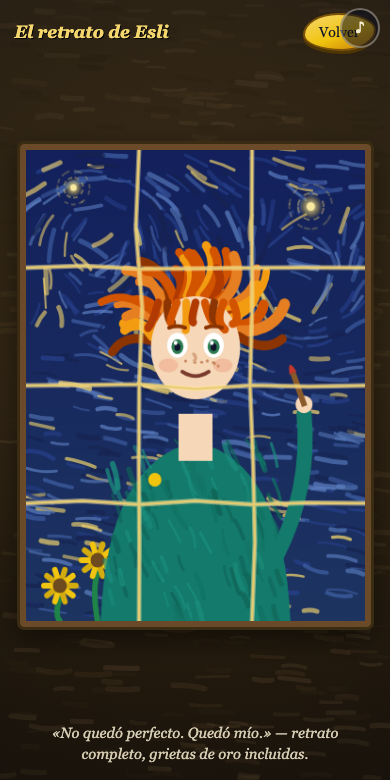
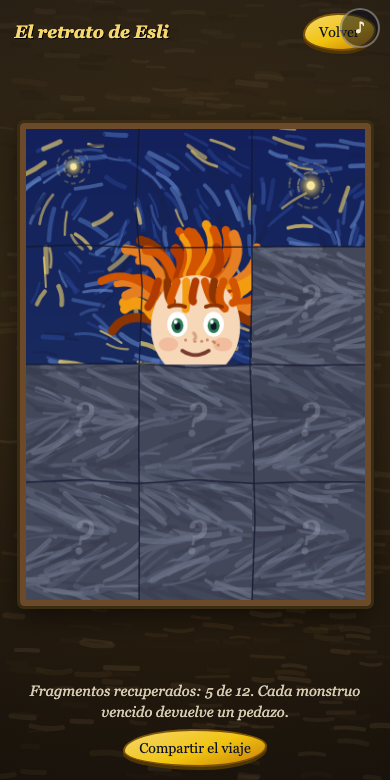
Sin spoilers en metadata + PWA offline + compartir
- og.jpg nueva (287KB, WhatsApp-safe): el retrato A MEDIO armar entre
  niebla — vende la premisa sin regalar el final. La anterior mostraba
  el retrato completo (la recompensa del juego) y pesaba 694KB.
- Descripciones y README sin revelar compañeros ni el final kintsugi.
- og:url/locale/site_name, canonical y JSON-LD VideoGame.
- PWA real: service worker (stale-while-revalidate, juega offline),
  iconos PNG 192/512 + maskable + apple-touch-icon con la cara de Esli.
- Botón 'Compartir el viaje' en la pantalla del retrato (Web Share API
  con fallback a portapapeles).

diff --git a/test/og.html b/test/og.html
@@ -6,7 +6,7 @@
 <script src="../js/art.js"></script>
 <script src="../js/sprites.js"></script>
 <script>
-/* compone la imagen Open Graph con el arte del juego */
+/* imagen Open Graph SIN spoilers: el retrato a medio armar, comido por la niebla */
 const ctx = document.getElementById('og').getContext('2d');
 const W = 1200, H = 630;
 const rnd = G.Art.mulberry(7);
@@ -24,43 +24,54 @@ G.Art.star(ctx, W * 0.55, H * 0.13, 10, rnd);
 G.Art.star(ctx, W * 0.94, H * 0.18, 8, rnd);
 G.Art.star(ctx, W * 0.47, H * 0.86, 7, rnd);
 
-/* retrato enmarcado, ligeramente inclinado */
-const port = G.Sprites.selfPortrait();
-const ph = 520, pw = ph * 360 / 480, px = 70, py = (H - ph) / 2;
+/* retrato EN PROCESO: solo algunas piezas; el resto, niebla con grietas */
+const port = G.Sprites.selfPortrait();          /* 360x480 */
+const wip = document.createElement('canvas');
+wip.width = 360; wip.height = 480;
+const wctx = wip.getContext('2d');
+const PC = 3, PR = 4, pw = 120, ph = 120;
+const visibles = { '1,0': 1, '0,1': 1, '1,1': 1, '2,1': 1, '1,2': 1, '0,3': 1 };
+for (let r = 0; r < PR; r++) {
+  for (let c = 0; c < PC; c++) {
+    if (visibles[c + ',' + r]) {
+      wctx.drawImage(port, c * pw, r * ph, pw, ph, c * pw, r * ph, pw, ph);
+    } else {
+      wctx.drawImage(G.Sprites.fogTexture(pw, ph, r * 7 + c * 3 + 2), c * pw, r * ph);
+    }
+  }
+}
+/* grietas oscuras (todavía no doradas: eso se gana jugando) */
+wctx.strokeStyle = 'rgba(12,16,38,.85)'; wctx.lineWidth = 2;
+for (let c = 1; c < PC; c++) { wctx.beginPath(); wctx.moveTo(c * pw, 0); wctx.lineTo(c * pw, 480); wctx.stroke(); }
+for (let r = 1; r < PR; r++) { wctx.beginPath(); wctx.moveTo(0, r * ph); wctx.lineTo(360, r * ph); wctx.stroke(); }
+
+const phh = 520, pww = phh * 360 / 480, px = 70, py = (H - phh) / 2;
 ctx.save();
-ctx.translate(px + pw / 2, py + ph / 2); ctx.rotate(-0.02);
-ctx.fillStyle = '#3a2c12'; ctx.fillRect(-pw / 2 - 16, -ph / 2 - 16, pw + 32, ph + 32);
-ctx.fillStyle = '#6b4a2a'; ctx.fillRect(-pw / 2 - 10, -ph / 2 - 10, pw + 20, ph + 20);
-ctx.drawImage(port, -pw / 2, -ph / 2, pw, ph);
+ctx.translate(px + pww / 2, py + phh / 2); ctx.rotate(-0.02);
+ctx.fillStyle = '#3a2c12'; ctx.fillRect(-pww / 2 - 16, -phh / 2 - 16, pww + 32, phh + 32);
+ctx.fillStyle = '#6b4a2a'; ctx.fillRect(-pww / 2 - 10, -phh / 2 - 10, pww + 20, phh + 20);
+ctx.drawImage(wip, -pww / 2, -phh / 2, pww, phh);
 ctx.restore();
 
 /* texto */
 ctx.fillStyle = '#f5d76e';
 ctx.font = 'bold 150px Georgia';
 ctx.shadowColor = 'rgba(241,196,15,.45)'; ctx.shadowBlur = 26;
-ctx.fillText('ESLI', 540, 235);
+ctx.fillText('ESLI', 540, 225);
 ctx.shadowBlur = 0;
 ctx.fillStyle = '#f6ecd0';
 ctx.font = 'italic 46px Georgia';
-ctx.fillText('Las Piezas de Mí', 545, 302);
+ctx.fillText('Las Piezas de Mí', 545, 292);
 ctx.fillStyle = '#f5d76e';
-ctx.font = 'italic 42px Georgia';
-ctx.fillText('«Hazlo con miedo.»', 545, 390);
-ctx.fillStyle = 'rgba(246,236,208,.88)';
-ctx.font = '28px Georgia';
-ctx.fillText('Un puzzle pintado a pinceladas,', 545, 450);
-ctx.fillText('donde el miedo te hace más fuerte.', 545, 486);
-
-/* los tres, en medallones */
-function circ(img, cx, cy, r) {
-  ctx.save(); ctx.beginPath(); ctx.arc(cx, cy, r, 0, 7); ctx.clip();
-  ctx.drawImage(img, cx - r, cy - r, r * 2, r * 2); ctx.restore();
-  ctx.lineWidth = 5; ctx.strokeStyle = '#c87f0a';
-  ctx.beginPath(); ctx.arc(cx, cy, r, 0, 7); ctx.stroke();
-}
-circ(G.Sprites.portrait('esli', 'brave'), 595, 558, 52);
-circ(G.Sprites.portrait('annie'), 715, 558, 52);
-circ(G.Sprites.portrait('chiquis'), 835, 558, 52);
+ctx.font = 'italic 44px Georgia';
+ctx.fillText('«Hazlo con miedo.»', 545, 388);
+ctx.fillStyle = 'rgba(246,236,208,.9)';
+ctx.font = '30px Georgia';
+ctx.fillText('La Niebla Gris rompió tu retrato', 545, 455);
+ctx.fillText('en doce pedazos. Ve por ellos.', 545, 495);
+ctx.font = 'italic 24px Georgia';
+ctx.fillStyle = 'rgba(246,236,208,.6)';
+ctx.fillText('gratis · ligero · pintado a pinceladas', 545, 560);
 </script>
 </body>
 </html>

diff --git a/index.html b/index.html
@@ -4,21 +4,34 @@
 <meta charset="utf-8">
 <meta name="viewport" content="width=device-width, initial-scale=1, maximum-scale=1, user-scalable=no, viewport-fit=cover">
 <meta name="theme-color" content="#0e1a40">
-<meta name="description" content="Esli perdió las piezas de su autorretrato y va a recuperarlas temblando. Un puzzle pintado a pinceladas, estilo Van Gogh, donde el miedo te hace más fuerte. Gratis, ligero, juega desde tu cel.">
+<meta name="description" content="La Niebla Gris rompió el retrato de Esli en doce pedazos y los escondió en doce cuadros pintados a pinceladas. Recupéralos temblando: aquí el miedo te hace más fuerte. Gratis y ligero, juega desde tu cel.">
+<link rel="canonical" href="https://esli.vercel.app/">
 <meta property="og:type" content="website">
+<meta property="og:site_name" content="Esli — Las Piezas de Mí">
+<meta property="og:locale" content="es_MX">
+<meta property="og:url" content="https://esli.vercel.app/">
 <meta property="og:title" content="Esli — Las Piezas de Mí">
-<meta property="og:description" content="Hazlo con miedo. Un puzzle pintado a mano donde el miedo te hace más fuerte. 12 cuadros, 12 miedos, una alpaca y un chihuahua.">
-<meta property="og:image" content="https://esli.vercel.app/og.png">
+<meta property="og:description" content="La Niebla Gris rompió tu retrato en doce pedazos. Ve por ellos. Temblando, pero ve. «Hazlo con miedo.»">
+<meta property="og:image" content="https://esli.vercel.app/og.jpg">
+<meta property="og:image:type" content="image/jpeg">
 <meta property="og:image:width" content="1200">
 <meta property="og:image:height" content="630">
 <meta name="twitter:card" content="summary_large_image">
 <meta name="twitter:title" content="Esli — Las Piezas de Mí">
-<meta name="twitter:description" content="Hazlo con miedo. Un puzzle pintado a mano donde el miedo te hace más fuerte.">
-<meta name="twitter:image" content="https://esli.vercel.app/og.png">
+<meta name="twitter:description" content="La Niebla Gris rompió tu retrato en doce pedazos. Ve por ellos. «Hazlo con miedo.»">
+<meta name="twitter:image" content="https://esli.vercel.app/og.jpg">
 <title>Esli — Las Piezas de Mí · Hazlo con miedo</title>
 <link rel="icon" href="icon.svg" type="image/svg+xml">
+<link rel="apple-touch-icon" href="apple-touch-icon.png">
 <link rel="manifest" href="manifest.json">
 <link rel="stylesheet" href="css/style.css">
+<script type="application/ld+json">
+{"@context":"https://schema.org","@type":"VideoGame","name":"Esli — Las Piezas de Mí",
+"url":"https://esli.vercel.app/","image":"https://esli.vercel.app/og.jpg",
+"description":"La Niebla Gris rompió el retrato de Esli en doce pedazos y los escondió en doce cuadros. Un juego de puzzles pintado a pinceladas donde el miedo te hace más fuerte.",
+"inLanguage":"es","genre":["Puzzle","Aventura"],"gamePlatform":"Web browser",
+"applicationCategory":"Game","isAccessibleForFree":true,"operatingSystem":"Any"}
+</script>
 </head>
 <body>
 <canvas id="bg"></canvas>
@@ -96,6 +109,7 @@
     </header>
     <div class="puzzle-wrap"><canvas id="puzzle-canvas" width="360" height="480"></canvas></div>
     <p id="puzzle-caption" class="puzzle-caption"></p>
+    <button id="btn-share" class="btn btn-small btn-share">Compartir el viaje</button>
   </section>
 
 </main>

diff --git a/sw.js b/sw.js
@@ -1,0 +1,43 @@
+/* sw.js — la galería funciona aunque no haya señal.
+   Estrategia: cache-first con revalidación en segundo plano (stale-while-revalidate).
+   Sube la versión al cambiar assets para limpiar cachés viejos. */
+const VERSION = 'esli-v1';
+const ASSETS = [
+  './', 'index.html', 'css/style.css',
+  'js/art.js', 'js/sprites.js', 'js/data.js', 'js/board.js',
+  'js/modes.js', 'js/battle.js', 'js/ui.js', 'js/main.js',
+  'icon.svg', 'icon-192.png', 'icon-512.png', 'manifest.json'
+];
+
+self.addEventListener('install', function (e) {
+  e.waitUntil(
+    caches.open(VERSION).then(function (c) { return c.addAll(ASSETS); })
+      .then(function () { return self.skipWaiting(); })
+  );
+});
+
+self.addEventListener('activate', function (e) {
+  e.waitUntil(
+    caches.keys().then(function (keys) {
+      return Promise.all(keys.map(function (k) {
+        if (k !== VERSION) return caches.delete(k);
+      }));
+    }).then(function () { return self.clients.claim(); })
+  );
+});
+
+self.addEventListener('fetch', function (e) {
+  if (e.request.method !== 'GET' || !e.request.url.startsWith(self.location.origin)) return;
+  e.respondWith(
+    caches.match(e.request).then(function (hit) {
+      const refresh = fetch(e.request).then(function (res) {
+        if (res && res.ok) {
+          const clone = res.clone();
+          caches.open(VERSION).then(function (c) { c.put(e.request, clone); });
+        }
+        return res;
+      }).catch(function () { return hit; });
+      return hit || refresh;
+    })
+  );
+});

diff --git a/test/icons.html b/test/icons.html
@@ -1,0 +1,32 @@
+<!DOCTYPE html>
+<html lang="es-MX">
+<head><meta charset="utf-8"><style>html,body{margin:0;padding:0;overflow:hidden;background:#000}</style></head>
+<body>
+<canvas id="ic" width="512" height="512"></canvas>
+<script src="../js/art.js"></script>
+<script src="../js/sprites.js"></script>
+<script>
+/* icono PWA: la cara de Esli sobre noche estrellada (cara al centro, zona segura maskable) */
+const ctx = document.getElementById('ic').getContext('2d');
+const S = 512;
+const rnd = G.Art.mulberry(12);
+const g = ctx.createLinearGradient(0, 0, 0, S);
+g.addColorStop(0, '#101c44'); g.addColorStop(1, '#0b1437');
+ctx.fillStyle = g; ctx.fillRect(0, 0, S, S);
+const af = G.Art.vortexAngle([
+  { x: S * 0.25, y: S * 0.2, r: 90, s: 1 },
+  { x: S * 0.8, y: S * 0.75, r: 80, s: -1 }
+]);
+G.Art.strokeField(ctx, 0, 0, S, S, ['#27408b', '#3f5fa3', '#16224e', '#5c7fc0'],
+  { n: 700, len: 26, width: 5, angleFn: af, rnd: rnd, alpha: 0.85, jitter: 0.3 });
+G.Art.star(ctx, S * 0.8, S * 0.17, 13, rnd);
+/* bufanda */
+ctx.fillStyle = '#147a6b';
+ctx.beginPath(); ctx.ellipse(S / 2, S * 1.04, S * 0.42, S * 0.26, 0, 0, 7); ctx.fill();
+ctx.fillStyle = '#f1c40f';
+ctx.beginPath(); ctx.arc(S * 0.66, S * 0.86, 16, 0, 7); ctx.fill();
+/* cara grande al centro */
+G.Sprites.esliFace(ctx, S / 2, S * 0.5, S * 0.26, 'brave', 21);
+</script>
+</body>
+</html>

diff --git a/js/main.js b/js/main.js
@@ -151,6 +151,27 @@ window.G = window.G || {};
     });
     $('btn-puzzle-back').addEventListener('click', Game.toMap);
 
+    $('btn-share').addEventListener('click', function () {
+      const n = Game.pieceCount();
+      const data = {
+        title: 'Esli — Las Piezas de Mí',
+        text: n >= 12
+          ? 'Armé el retrato completo de Esli, temblando todo el camino. «Hazlo con miedo.»'
+          : 'Voy ' + n + ' de 12 piezas del retrato de Esli. «Hazlo con miedo.»',
+        url: 'https://esli.vercel.app/'
+      };
+      if (navigator.share) {
+        navigator.share(data).catch(function () {});
+      } else if (navigator.clipboard) {
+        navigator.clipboard.writeText(data.text + ' ' + data.url);
+        G.UI.modal({ html: '<h3>Enlace copiado</h3><p>Pégalo donde quieras. La Niebla odia la publicidad.</p>' });
+      }
+    });
+
+    if ('serviceWorker' in navigator) {
+      try { navigator.serviceWorker.register('sw.js'); } catch (e) {}
+    }
+
     G.UI.show('title');
   }
 

diff --git a/css/style.css b/css/style.css
@@ -239,8 +239,9 @@ body{
 #puzzle-canvas{height:100%;max-height:60vh;max-height:62dvh;width:auto;max-width:90vw;
   border:6px solid #6b4a2a;outline:3px solid #3a2c12;border-radius:4px;
   background:#0c1130;box-shadow:0 10px 30px rgba(0,0,0,.6)}
-.puzzle-caption{text-align:center;padding:.6em 1.4em calc(1em + env(safe-area-inset-bottom));
+.puzzle-caption{text-align:center;padding:.6em 1.4em .4em;
   font-style:italic;opacity:.85;font-size:.92rem;line-height:1.45}
+.btn-share{align-self:center;margin-bottom:calc(.9em + env(safe-area-inset-bottom))}
 
 /* ---------- diálogo ---------- */
 #dialog{position:fixed;inset:0;z-index:8;display:flex;align-items:flex-end;justify-content:center;

diff --git a/README.md b/README.md
@@ -1,4 +1,4 @@
-<p align="center"><img src="og.png" alt="Esli — Las Piezas de Mí" width="720"></p>
+<p align="center"><img src="og.jpg" alt="Esli — Las Piezas de Mí" width="720"></p>
 
 # Esli — Las Piezas de Mí
 
@@ -21,19 +21,17 @@ registro, ~110 KB. Corre hasta en el cel más humilde.
 - **El miedo es tu arma.** Cada golpe que recibes sube tu barra de miedo — y
   tu daño con ella, hasta +75%. No esperas a que se te quite: pegas con él.
   La mecánica es la moraleja.
-- **Cada cuadro se juega distinto.** Combates match-3, memoramas bajo la
-  cobija, cuadros rotos cuyos fragmentos acomodas pieza a pieza, estrellas
-  que encender en orden mientras el Remolino las renumera, y un eco que
-  repetir como campanada. Los jefes hacen trampa cada quien a su manera.
-- **Compañía pequeña y feroz.** Annie, alpaca bebé blanca que abriga (escudo
-  de lana). Chiquis, chihuahua de veinte centímetros que no le teme a nada de
-  más de veinte centímetros (su ladrido retrasa al monstruo).
+- **Cada cuadro se juega distinto.** Combates match-3, memoramas, cuadros
+  rotos cuyos fragmentos acomodas pieza a pieza, estrellas que encender en
+  orden y un eco que repetir como campanada. Cada jefe hace trampa a su
+  manera; descubrir cómo es parte del chiste.
 - **Doce cuadros, doce miedos.** Del *Trigal con cuervos* a *La noche
-  estrellada* y el *Almendro en flor*: cada nivel es un homenaje a Van Gogh y
-  cada jefe un miedo con voz propia — la Duda trae lista por escrito, la
-  Cobija te dice «cinco minutitos más».
-- **Final kintsugi.** El retrato no queda perfecto: queda con grietas de oro.
-  Ese es el punto.
+  estrellada* y el *Almendro en flor*: cada nivel es un homenaje a Van Gogh
+  y cada jefe un miedo con voz propia.
+- **No vas sola.** En el camino se te unen dos compañeros chiquitos y
+  feroces. No te decimos quiénes: ellos se presentan solos.
+- **Cada victoria devuelve una pieza de tu retrato.** Lo que pasa cuando
+  está completo, se queda entre Esli y tú.
 
 ## Por dentro
 
